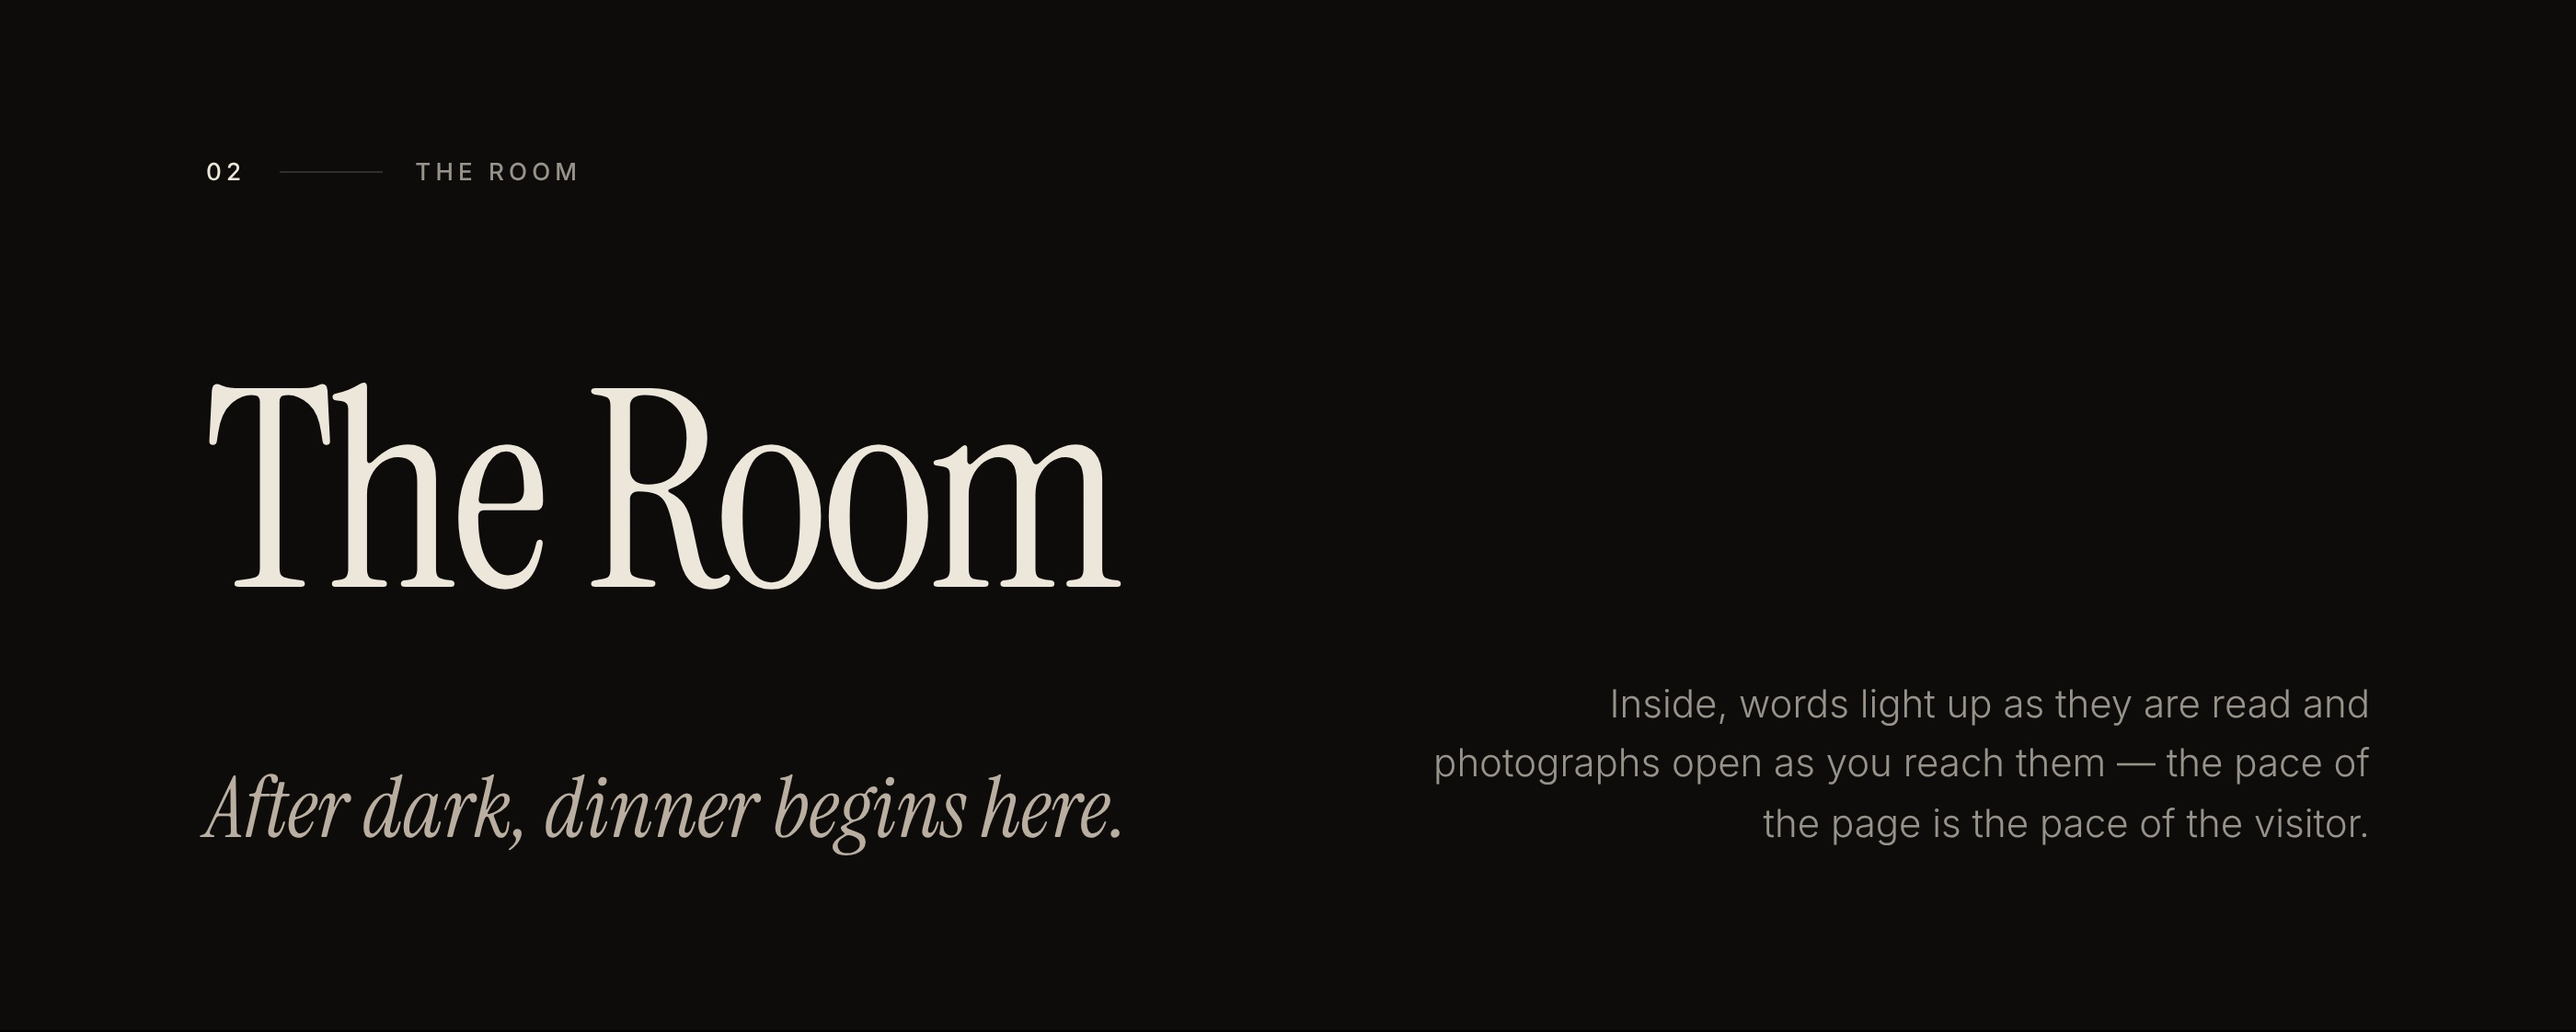
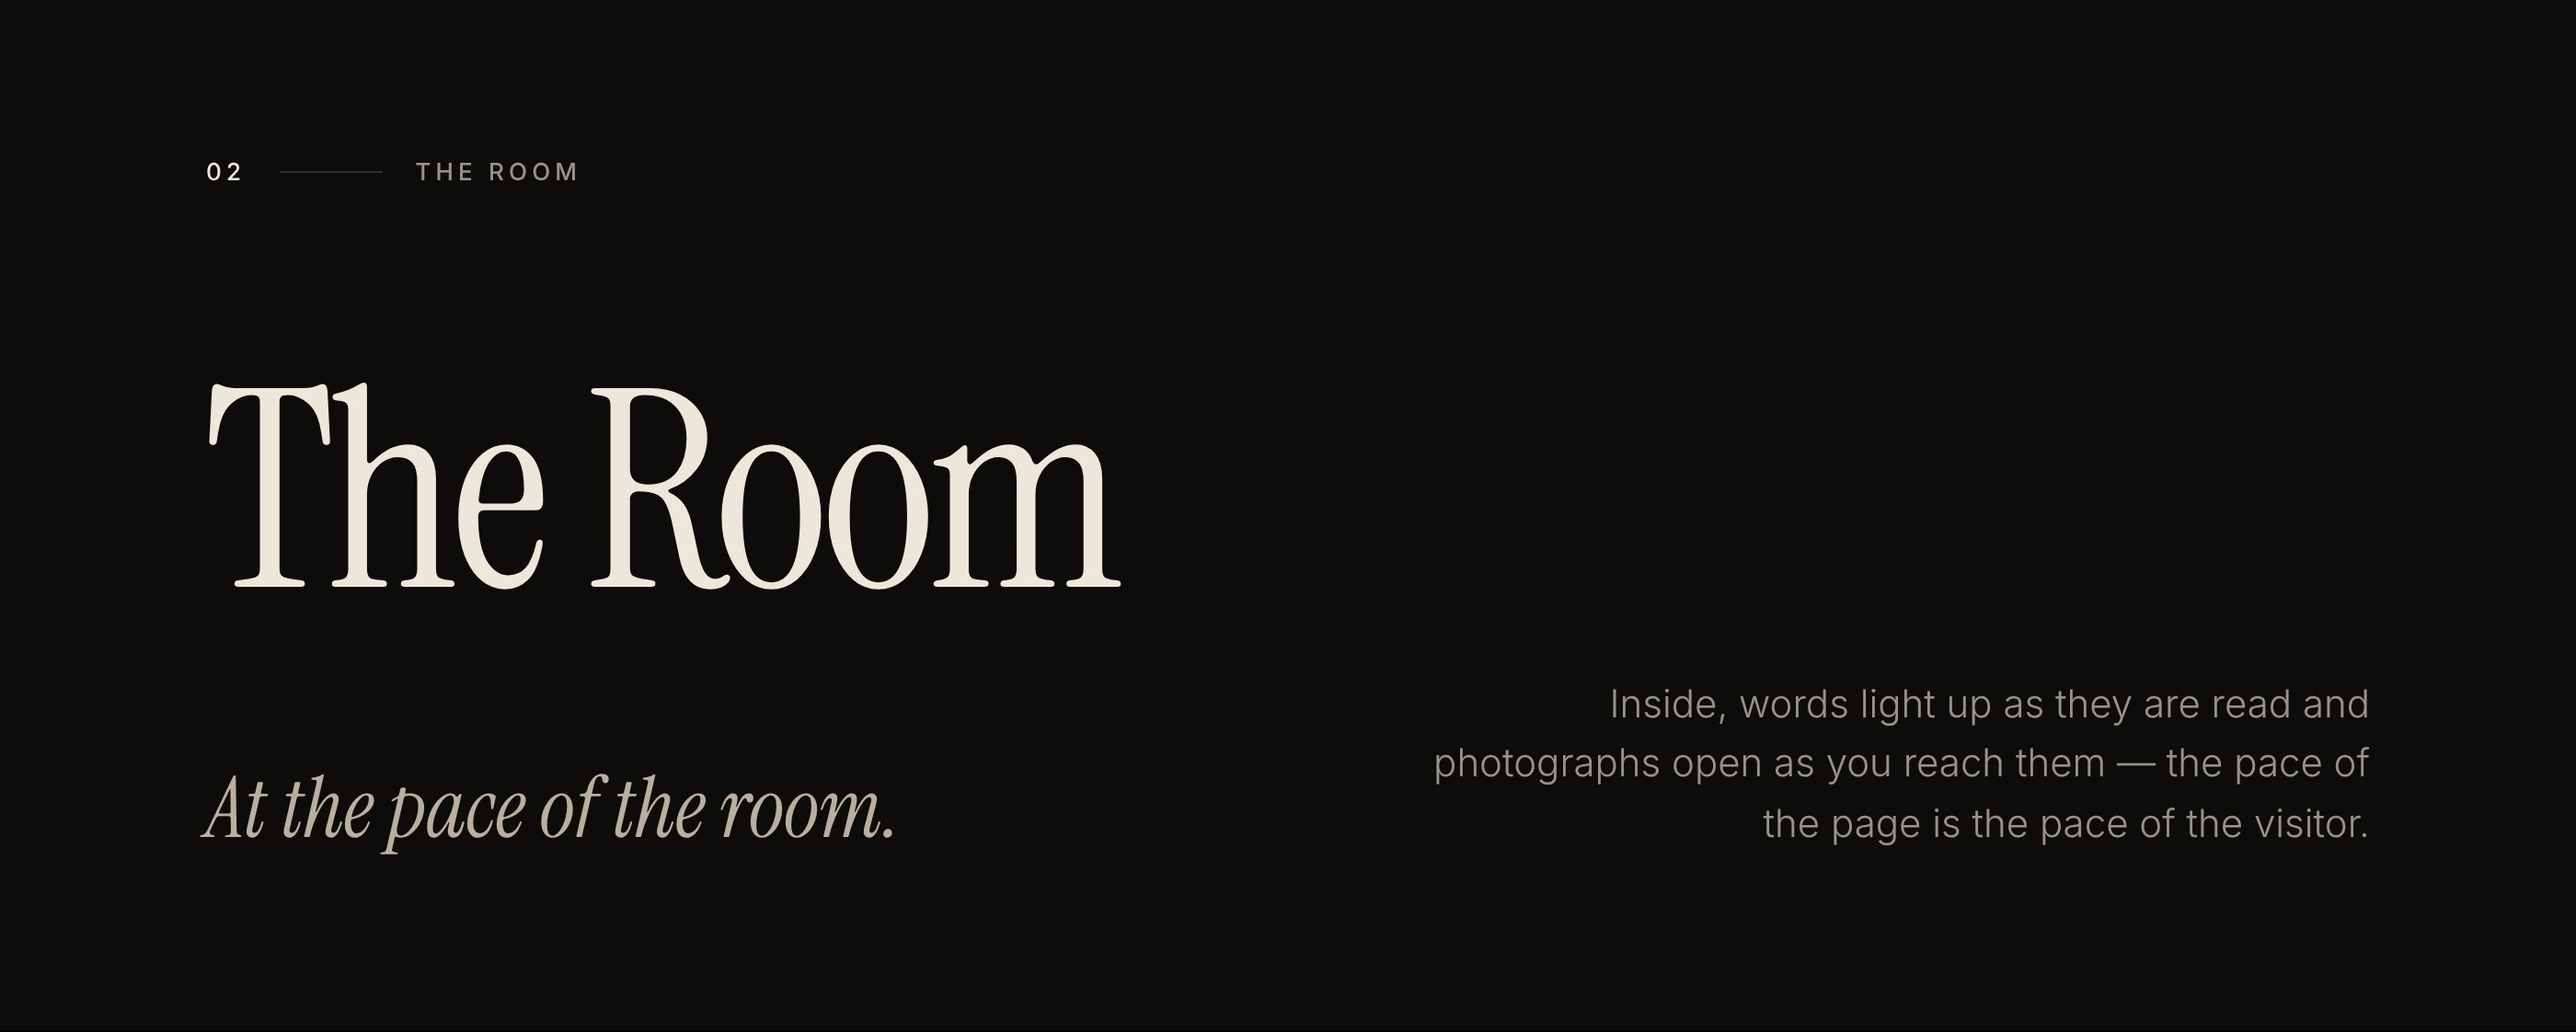
Case v3: threshold cover and title; street GIF holds inside the room; room duplicate removed; room-words starts on black
Claude-Session: https://claude.ai/code/session_011vqFLFDv7vsNPGYrLaF2GH

Changed region(s): [[0.0932, 0.7487, 0.435, 0.8422]]

diff --git a/kit/preview.html b/kit/preview.html
@@ -22,7 +22,7 @@
 </style>
 </head>
 <body>
-<header><b>Vesper — An Evening in Riga</b><span>Behance case preview · 28 modules + text, in upload order</span></header>
+<header><b>Vesper — An Evening in Riga</b><span>Behance case preview · 27 modules + text, in upload order</span></header>
 <div class="cover"><img src="00_cover.jpg" alt="Cover"><p>Project cover (808×632 @2×). Below: the project exactly as it will read on Behance — background #0E0C0A, 0 px between modules.</p></div>
 <main>
   <img src="01_title.jpg" alt="">
@@ -34,25 +34,24 @@
   <img src="07_card_street.jpg" alt="">
   <img src="08_street.gif" alt="">
   <img src="09_card_room.jpg" alt="">
-  <img src="10_room.gif" alt="">
-  <img src="11_room_words.gif" alt="">
-  <img src="12_card_table.jpg" alt="">
-  <img src="13_plate.gif" alt="">
-  <img src="14_plate_light.gif" alt="">
-  <img src="15_choreography.jpg" alt="">
-  <img src="16_card_menu.jpg" alt="">
-  <img src="17_plate_to_menu.gif" alt="">
-  <img src="18_menu.gif" alt="">
-  <img src="19_card_reserve.jpg" alt="">
-  <img src="20_reservation.gif" alt="">
-  <img src="21_card_mobile.jpg" alt="">
-  <img src="22_mobile_screens.jpg" alt="">
-  <img src="23_mobile_trio.gif" alt="">
-  <img src="24_desktop_mobile.gif" alt="">
-  <img src="25_card_details.jpg" alt="">
-  <img src="26_details.jpg" alt="">
-  <img src="27_final.jpg" alt="">
-  <img src="28_cta.jpg" alt="">
+  <img src="10_room_words.gif" alt="">
+  <img src="11_card_table.jpg" alt="">
+  <img src="12_plate.gif" alt="">
+  <img src="13_plate_light.gif" alt="">
+  <img src="14_choreography.jpg" alt="">
+  <img src="15_card_menu.jpg" alt="">
+  <img src="16_plate_to_menu.gif" alt="">
+  <img src="17_menu.gif" alt="">
+  <img src="18_card_reserve.jpg" alt="">
+  <img src="19_reservation.gif" alt="">
+  <img src="20_card_mobile.jpg" alt="">
+  <img src="21_mobile_screens.jpg" alt="">
+  <img src="22_mobile_trio.gif" alt="">
+  <img src="23_desktop_mobile.gif" alt="">
+  <img src="24_card_details.jpg" alt="">
+  <img src="25_details.jpg" alt="">
+  <img src="26_final.jpg" alt="">
+  <img src="27_cta.jpg" alt="">
   <div class="txt">
     <a href="mailto:laisaa.marta@gmail.com">Email <span>↗</span></a>
     <a href="https://wa.me/37128203044">WhatsApp <span>↗</span></a>

diff --git a/kit/UPLOAD-GUIDE.md b/kit/UPLOAD-GUIDE.md
@@ -1,6 +1,6 @@
 # Vesper — публикация кейса на Behance
 
-28 модулей пронумерованы в порядке загрузки, плюс один текстовый модуль в конце.
+27 модулей пронумерованы в порядке загрузки, плюс один текстовый модуль в конце.
 `preview.html` показывает кейс целиком, с анимированными GIF.
 
 ## 1. Новый проект
@@ -11,39 +11,38 @@ behance.net → «Поделиться работой» → «Опубликов
 - Отступ между элементами: **0 px**
 
 ## 3. Модули по порядку
-«Изображение» → файлы 01–28 по номерам.
+«Изображение» → файлы 01–27 по номерам.
 
 | № | Файл | Зачем этот блок |
 |---|------|-----------------|
-| 01 | 01_title.jpg | Первый экран: Vesper, тонкая арка двери, «Scroll to enter» |
+| 01 | 01_title.jpg | Первый экран: одна освещённая дверь в тёмном фасаде, имя «Ves·per» стоит по обе стороны двери |
 | 02 | 02_intro.jpg | Что это за проект, какая была задача, что сделано |
 | 03 | 03_info.jpg | Project / Location / Scope / Type / Year |
 | 04 | 04_journey.jpg | Концепция: «The scroll is a walk», 8 сцен |
 | 05 | 05_art_type.jpg | Визуальный язык: шрифты и палитра |
 | 06 | 06_art_photo.jpg | Визуальный язык: свет, материалы, принципы |
 | 07 | 07_card_street.jpg | 01 — The Street |
-| 08 | 08_street.gif | Вход с улицы: камера подходит к двери |
+| 08 | 08_street.gif | С улицы через дверь в зал — и камера задерживается внутри: «After dark, dinner begins here» |
 | 09 | 09_card_room.jpg | 02 — The Room |
-| 10 | 10_room.gif | Дверь открывает зал: «After dark, dinner begins here» |
-| 11 | 11_room_words.gif | Слова загораются при чтении, фото раскрываются |
-| 12 | 12_card_table.jpg | 03 — The Table |
-| 13 | 13_plate.gif | Как формируется блюдо: стол → зал уходит → тарелка поднимается |
-| 14 | 14_plate_light.gif | Крупный план: свет и объём следуют за курсором |
-| 15 | 15_choreography.jpg | Как это устроено: партитура скролла |
-| 16 | 16_card_menu.jpg | 04 — The Menu |
-| 17 | 17_plate_to_menu.gif | Тарелка переходит в меню |
-| 18 | 18_menu.gif | Меню: блюдо следует за курсором, индекс разделов |
-| 19 | 19_card_reserve.jpg | 05 — Reservations |
-| 20 | 20_reservation.gif | Дата → время → гости → имя → подтверждение |
-| 21 | 21_card_mobile.jpg | Mobile |
-| 22 | 22_mobile_screens.jpg | Пять мобильных экранов |
-| 23 | 23_mobile_trio.gif | Вход, навигация → меню, бронирование на телефоне |
-| 24 | 24_desktop_mobile.gif | Одна сцена (тарелка) на десктопе и на телефоне |
-| 25 | 25_card_details.jpg | Details |
-| 26 | 26_details.jpg | Состояния интерфейса крупно |
-| 27 | 27_final.jpg | Финал: Vesper — Evening dining · Riga |
-| 28 | 28_cta.jpg | Let's create something beautiful |
-| 29 | **Текст** | Кликабельные ссылки, см. ниже |
+| 10 | 10_room_words.gif | Зал: слова загораются при чтении, фотографии раскрываются |
+| 11 | 11_card_table.jpg | 03 — The Table |
+| 12 | 12_plate.gif | Как формируется блюдо: стол → зал уходит → тарелка поднимается |
+| 13 | 13_plate_light.gif | Крупный план: свет и объём следуют за курсором |
+| 14 | 14_choreography.jpg | Как это устроено: партитура скролла |
+| 15 | 15_card_menu.jpg | 04 — The Menu |
+| 16 | 16_plate_to_menu.gif | Тарелка переходит в меню |
+| 17 | 17_menu.gif | Меню: блюдо следует за курсором, индекс разделов |
+| 18 | 18_card_reserve.jpg | 05 — Reservations |
+| 19 | 19_reservation.gif | Дата → время → гости → имя → подтверждение |
+| 20 | 20_card_mobile.jpg | Mobile |
+| 21 | 21_mobile_screens.jpg | Пять мобильных экранов |
+| 22 | 22_mobile_trio.gif | Вход, навигация → меню, бронирование на телефоне |
+| 23 | 23_desktop_mobile.gif | Одна сцена (тарелка) на десктопе и на телефоне |
+| 24 | 24_card_details.jpg | Details |
+| 25 | 25_details.jpg | Состояния интерфейса крупно |
+| 26 | 26_final.jpg | Финал: Vesper — Evening dining · Riga |
+| 27 | 27_cta.jpg | Let's create something beautiful |
+| 28 | **Текст** | Кликабельные ссылки, см. ниже |
 
 ## 4. Последний модуль: «Текст»
 По центру, с засечками, цвет **#EDE6DA**:
